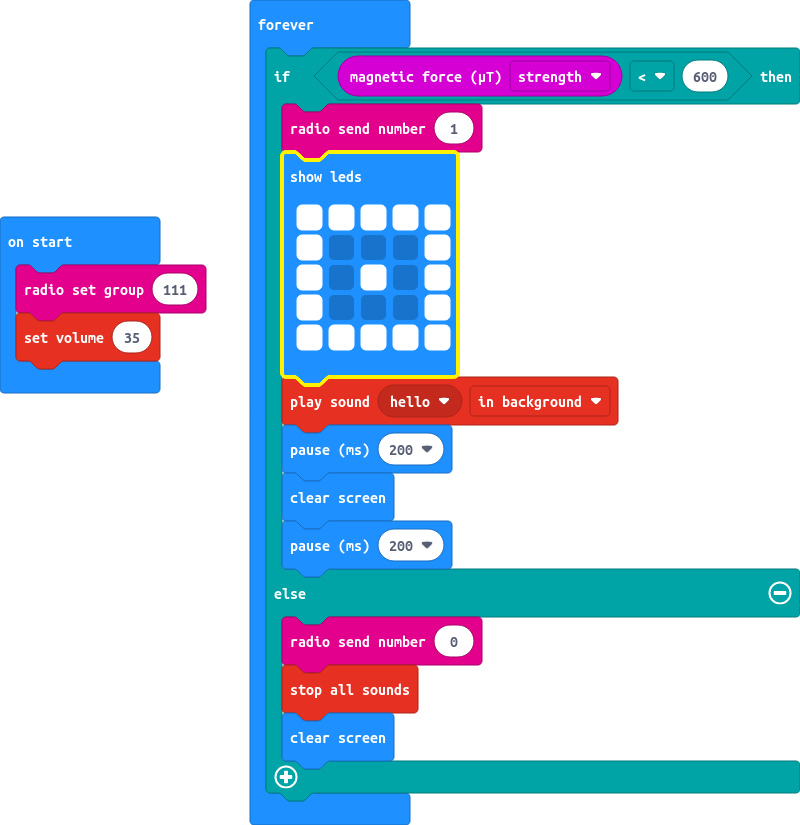
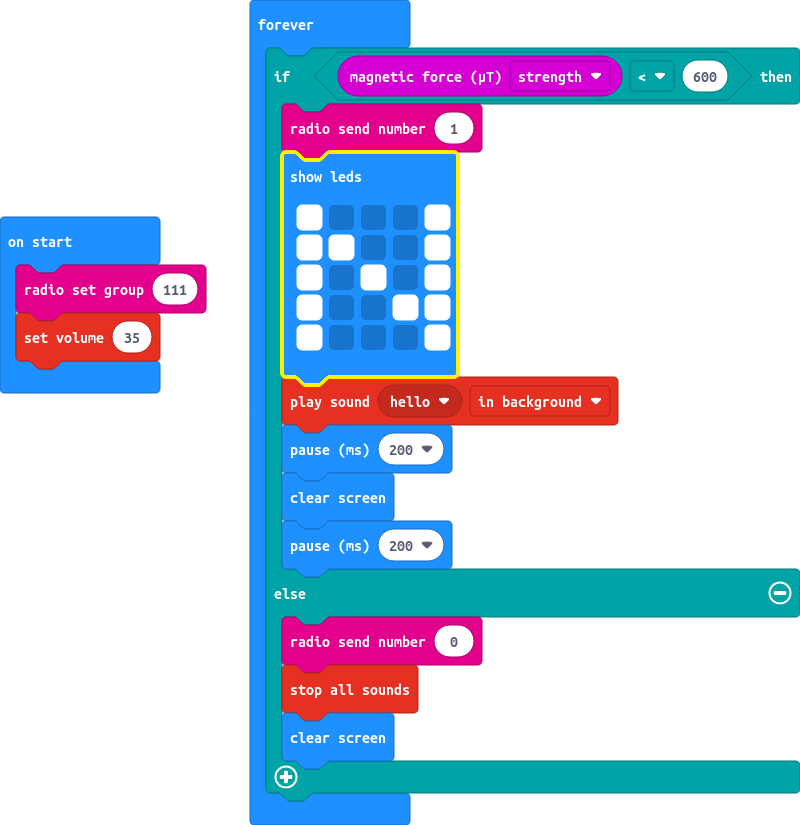
Update main.blocks, main.ts

Changed region(s): [[0.4062, 0.2424, 0.5312, 0.3333], [0.4062, 0.3333, 0.5312, 0.4242]]

diff --git a/main.ts b/main.ts
@@ -4,11 +4,11 @@ basic.forever(function () {
     if (input.magneticForce(Dimension.Strength) < 600) {
         radio.sendNumber(1)
         basic.showLeds(`
-            # # # # #
             # . . . #
+            # # . . #
             # . # . #
+            # . . # #
             # . . . #
-            # # # # #
             `)
         music.playSoundEffect(music.builtinSoundEffect(soundExpression.hello), SoundExpressionPlayMode.InBackground)
         basic.pause(200)
